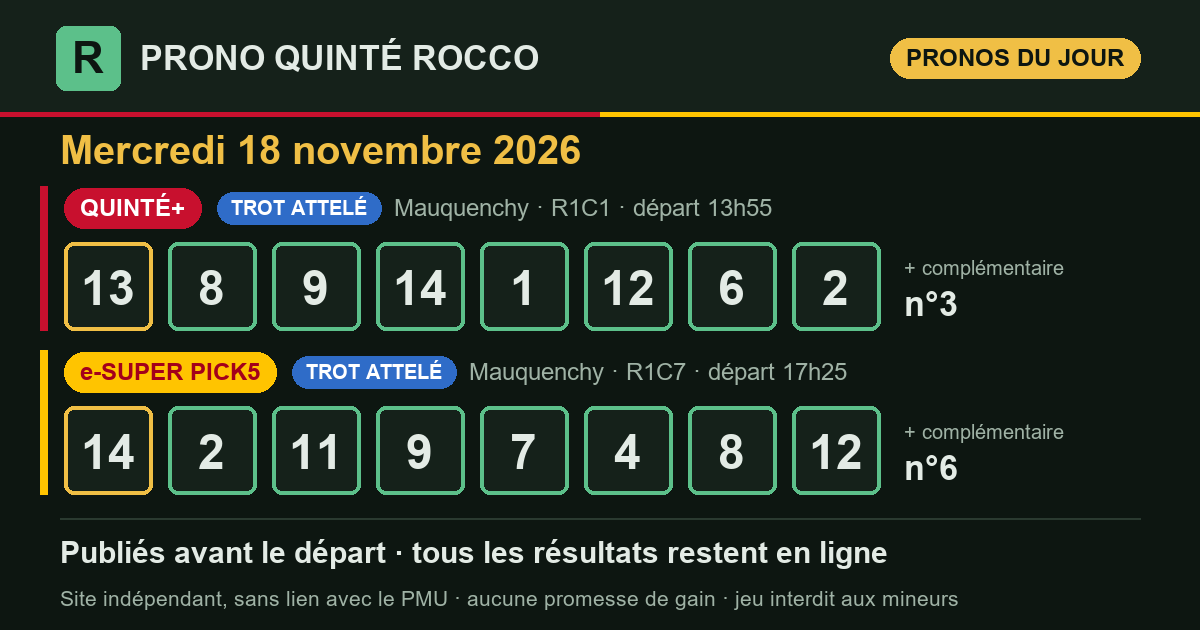
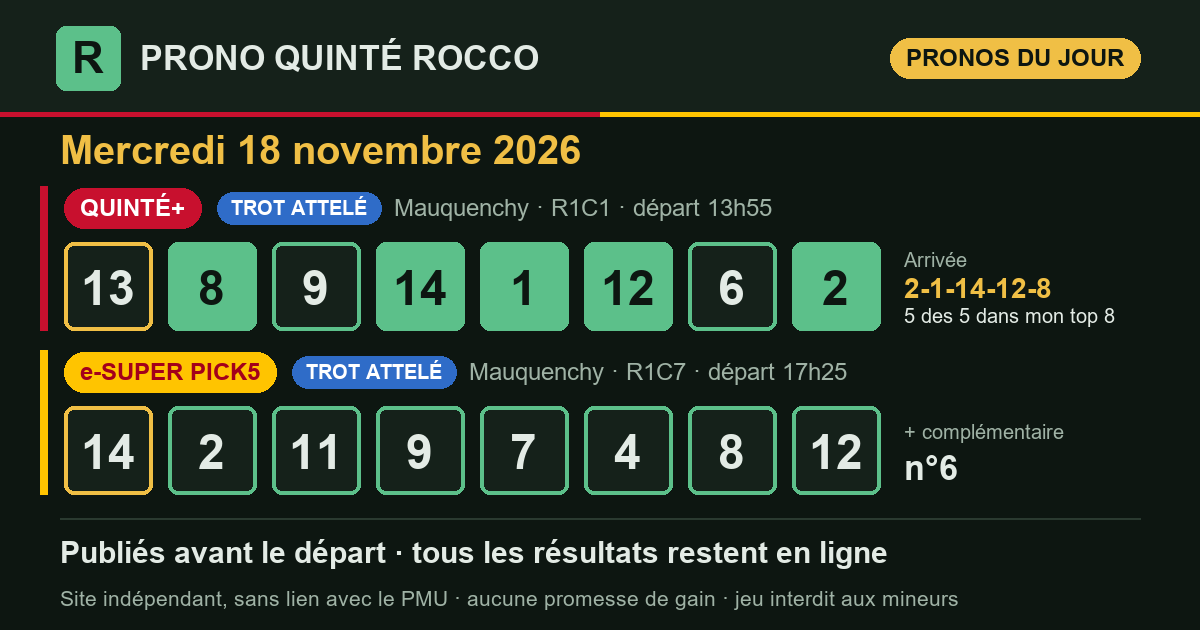
Résultat du Quinté+ 2026-11-18 Mauquenchy R1C1 — publié le 18/11/2026 14:11 (heure de Paris)

Changed region(s): [[0.3083, 0.3921, 0.555, 0.5429], [0.6475, 0.3921, 0.925, 0.5429], [0.1233, 0.3921, 0.2158, 0.5429]]

diff --git a/partants.html b/partants.html
@@ -3,7 +3,7 @@
 <head>
 <meta charset="utf-8">
 <meta name="viewport" content="width=device-width, initial-scale=1, viewport-fit=cover">
-<title>Partants du Quinté+ du mercredi 18 novembre 2026 : Grand National du Trot — Prono Quinté Rocco</title>
+<title>Partants du Quinté+ du jeudi 19 novembre 2026 : Prix de Windsor — Prono Quinté Rocco</title>
 <meta name="description" content="Les partants du prochain Quinté+ (programme officiel du PMU), avec le rang de chaque cheval dans mon prono et les liens vers les pronostics de la presse.">
 <link rel="canonical" href="https://prono-quinte-rocco.fr/partants.html">
 <link rel="stylesheet" href="style.css?v=16feb868">
@@ -13,7 +13,7 @@
 <meta property="og:site_name" content="Prono Quinté Rocco">
 <meta property="og:locale" content="fr_FR">
 <meta property="og:type" content="website">
-<meta property="og:title" content="Partants du Quinté+ du mercredi 18 novembre 2026 : Grand National du Trot — Prono Quinté Rocco">
+<meta property="og:title" content="Partants du Quinté+ du jeudi 19 novembre 2026 : Prix de Windsor — Prono Quinté Rocco">
 <meta property="og:description" content="Les partants du prochain Quinté+ (programme officiel du PMU), avec le rang de chaque cheval dans mon prono et les liens vers les pronostics de la presse.">
 <meta property="og:url" content="https://prono-quinte-rocco.fr/partants.html">
 <meta name="twitter:card" content="summary">
@@ -30,110 +30,100 @@
   <p class="surtitre">Programme officiel du PMU</p>
   <h1>Les partants du prochain Quinté+</h1>
   <div class="fiche-course">
-    <p class="fiche-date">Mercredi 18 novembre 2026</p>
-    <div class="fiche-rc"><span class="pastille" title="Réunion 1">R1</span><span class="pastille" title="Course 1">C1</span><span class="fiche-nom">Grand National du Trot</span></div>
-    <p class="meta"><span class="type t-attele">Trot attelé</span>Mauquenchy · 2 850 m · 18 partants</p>
+    <p class="fiche-date">Jeudi 19 novembre 2026</p>
+    <div class="fiche-rc"><span class="pastille" title="Réunion 1">R1</span><span class="pastille" title="Course 6">C6</span><span class="fiche-nom">Prix de Windsor</span></div>
+    <p class="meta"><span class="type t-plat">Plat</span>Saint-Cloud · 2 000 m · 16 partants</p>
     <p class="fiche-depart">Départ <b>13:55</b> <span>heure de Paris</span></p>
   </div>
   <p class="surtitre">Les pronostics ailleurs sur le web</p>
-  <div class="liens"><a class="lien-ext" href="https://www.turfoo.fr/programmes-courses/261118/reunion1-mauquenchy/course1-grand-national-du-trot/pronostics-presse/" rel="noopener" target="_blank"><b>Les pronostics de la presse →</b><span>sur Turfoo (site extérieur)</span></a><a class="lien-ext" href="https://www.geny.com/programme/2026-11-18" rel="noopener" target="_blank"><b>Partants et pronostics →</b><span>programme du jour sur Geny (site extérieur)</span></a></div>
+  <div class="liens"><a class="lien-ext" href="https://www.turfoo.fr/programmes-courses/261119/reunion1-saint-cloud/course6-prix-de-windsor/pronostics-presse/" rel="noopener" target="_blank"><b>Les pronostics de la presse →</b><span>sur Turfoo (site extérieur)</span></a><a class="lien-ext" href="https://www.geny.com/programme/2026-11-19" rel="noopener" target="_blank"><b>Partants et pronostics →</b><span>programme du jour sur Geny (site extérieur)</span></a></div>
   <div class="liste-boite"><table class="liste-partants">
     <thead><tr><th>N°</th><th>Cheval</th><th class="cote"><span class="long">Cote du matin</span><span class="court">Cote</span></th>
     <th class="ia"><span class="long">Mon prono</span><span class="court">Prono</span></th></tr></thead>
     <tbody><tr>
   <td><span class="tapis petit">1</span></td>
-  <td><span class="cheval">KEMIA DU CHENE</span><span class="sous">B. ROCHARD · J. LE MER</span></td>
-  <td class="cote num">7,7</td>
-  <td class="ia"><span class="etat place">5<sup>e</sup></span></td>
+  <td><span class="cheval">DOUBLE UP</span><span class="sous">A.MADAMET · S.WATTEL (S)</span></td>
+  <td class="cote num">—</td>
+  <td class="ia">—</td>
 </tr><tr>
   <td><span class="tapis petit">2</span></td>
-  <td><span class="cheval">ILEO PIERJI</span><span class="sous">A. BARRIER · CH.A. MARY</span></td>
-  <td class="cote num">19,0</td>
-  <td class="ia"><span class="etat place">8<sup>e</sup></span></td>
+  <td><span class="cheval">BAYAMOON</span><span class="sous">F.VERON · J.REYNIER (S)</span></td>
+  <td class="cote num">—</td>
+  <td class="ia">—</td>
 </tr><tr>
   <td><span class="tapis petit">3</span></td>
-  <td><span class="cheval">LIGHT MY FIRE</span><span class="sous">A. GUARATO · S. GUARATO</span></td>
-  <td class="cote num">21,0</td>
-  <td class="ia"><span class="etat place">compl.</span></td>
+  <td><span class="cheval">GET SET</span><span class="sous">T.BREBION · L.GADBIN (S)</span></td>
+  <td class="cote num">—</td>
+  <td class="ia">—</td>
 </tr><tr>
   <td><span class="tapis petit">4</span></td>
-  <td><span class="cheval">HELIOS SI</span><span class="sous">S. HARDY · S. HARDY</span></td>
-  <td class="cote num">125,0</td>
+  <td><span class="cheval">CENTRICAL</span><span class="sous">B.MARIE · K.KEREKES</span></td>
+  <td class="cote num">—</td>
   <td class="ia">—</td>
 </tr><tr>
   <td><span class="tapis petit">5</span></td>
-  <td><span class="cheval">LOULOU DE MYE</span><span class="sous">R.CH. LARUE · R.CH. LARUE</span></td>
-  <td class="cote num">67,0</td>
+  <td><span class="cheval">MR FLEURANT</span><span class="sous">A.HAMELIN · A.WATRIGANT (S)</span></td>
+  <td class="cote num">—</td>
   <td class="ia">—</td>
 </tr><tr>
   <td><span class="tapis petit">6</span></td>
-  <td><span class="cheval">IGUANE DE CAPONET</span><span class="sous">Y. LEBOURGEOIS · C. RAIMBAUD</span></td>
-  <td class="cote num">12,0</td>
-  <td class="ia"><span class="etat place">7<sup>e</sup></span></td>
+  <td><span class="cheval">ZARAMIX</span><span class="sous">M.GUYON · P&amp;J.BRANDT (S)</span></td>
+  <td class="cote num">—</td>
+  <td class="ia">—</td>
 </tr><tr>
   <td><span class="tapis petit">7</span></td>
-  <td><span class="cheval">HAMILTON DU HAM</span><span class="sous">CH. MARTENS · Y. DESMET</span></td>
-  <td class="cote num">101,0</td>
+  <td><span class="cheval">HOMO DEUS</span><span class="sous">C.LECOEUVRE · H.GHABRI</span></td>
+  <td class="cote num">—</td>
   <td class="ia">—</td>
 </tr><tr>
   <td><span class="tapis petit">8</span></td>
-  <td><span class="cheval">IALTO D&#x27;HERTALS</span><span class="sous">THEO DUVALDESTIN · TH. DUVALDESTIN</span></td>
-  <td class="cote num">11,0</td>
-  <td class="ia"><span class="etat place">2<sup>e</sup></span></td>
+  <td><span class="cheval">FLASH GIRL</span><span class="sous">T.PICCONE · HA.PANTALL (S)</span></td>
+  <td class="cote num">—</td>
+  <td class="ia">—</td>
 </tr><tr>
   <td><span class="tapis petit">9</span></td>
-  <td><span class="cheval">ISOFOU DU CHENE</span><span class="sous">P.PH. PLOQUIN · J. LE MER</span></td>
-  <td class="cote num">4,1</td>
-  <td class="ia"><span class="etat place">3<sup>e</sup></span></td>
+  <td><span class="cheval">AMERICAN GLORY</span><span class="sous">A.LEMAITRE · N.PERRET (S)</span></td>
+  <td class="cote num">—</td>
+  <td class="ia">—</td>
 </tr><tr>
   <td><span class="tapis petit">10</span></td>
-  <td><span class="cheval">J&#x27;AIME LE FOOT</span><span class="sous">A. LHERETE · Antoine LHERETE</span></td>
-  <td class="cote num">87,0</td>
+  <td><span class="cheval">GUILLERETTE</span><span class="sous">F.VALLE SKAR · MME C.BARANDE BARBE</span></td>
+  <td class="cote num">—</td>
   <td class="ia">—</td>
 </tr><tr>
   <td><span class="tapis petit">11</span></td>
-  <td><span class="cheval">HIDALGO DES NOES</span><span class="sous">J. TRAVERS · St. PROVOOST</span></td>
-  <td class="cote num">100,0</td>
+  <td><span class="cheval">PLATA D OCTOBRE</span><span class="sous">H.BOUTIN · MME N.SIGAUD</span></td>
+  <td class="cote num">—</td>
   <td class="ia">—</td>
 </tr><tr>
   <td><span class="tapis petit">12</span></td>
-  <td><span class="cheval">JINGLE DU PONT</span><span class="sous">N. BAZIRE · N. BAZIRE</span></td>
-  <td class="cote num">8,3</td>
-  <td class="ia"><span class="etat place">6<sup>e</sup></span></td>
+  <td><span class="cheval">BON VIVEUR</span><span class="sous">H.LEBOUC · G.PANNIER</span></td>
+  <td class="cote num">—</td>
+  <td class="ia">—</td>
 </tr><tr>
   <td><span class="tapis petit">13</span></td>
-  <td><span class="cheval">IDEAL DU ROCHER</span><span class="sous">CL. DUVALDESTIN · TH. DUVALDESTIN</span></td>
-  <td class="cote num">7,3</td>
-  <td class="ia"><span class="etat place">1<sup>er</sup></span></td>
+  <td><span class="cheval">DOURIANN</span><span class="sous">L.ROUSSEL · G.PANNIER</span></td>
+  <td class="cote num">—</td>
+  <td class="ia">—</td>
 </tr><tr>
   <td><span class="tapis petit">14</span></td>
-  <td><span class="cheval">HULYSSE DIGEO</span><span class="sous">J.W. HALLAIS · J.W. HALLAIS</span></td>
-  <td class="cote num">5,0</td>
-  <td class="ia"><span class="etat place">4<sup>e</sup></span></td>
+  <td><span class="cheval">COMME QUOI</span><span class="sous">S.PASQUIER · N.PERRET (S)</span></td>
+  <td class="cote num">—</td>
+  <td class="ia">—</td>
 </tr><tr>
   <td><span class="tapis petit">15</span></td>
-  <td><span class="cheval">JUSTIN BOLD</span><span class="sous">P.Y. VERVA · J.R. DELLIAUX</span></td>
-  <td class="cote num">169,0</td>
+  <td><span class="cheval">TRABUCO</span><span class="sous">A.MOLINS · P.CHEVIGNY DE</span></td>
+  <td class="cote num">—</td>
   <td class="ia">—</td>
 </tr><tr>
   <td><span class="tapis petit">16</span></td>
-  <td><span class="cheval">JEROBOAM D&#x27;ERABLE</span><span class="sous">D. THOMAIN · CL. THOMAIN</span></td>
-  <td class="cote num">165,0</td>
-  <td class="ia">—</td>
-</tr><tr>
-  <td><span class="tapis petit">17</span></td>
-  <td><span class="cheval">JEAN BALTHAZAR</span><span class="sous">P. CASTEL · P. CASTEL</span></td>
-  <td class="cote num">215,0</td>
-  <td class="ia">—</td>
-</tr><tr>
-  <td><span class="tapis petit">18</span></td>
-  <td><span class="cheval">INA DU RIB</span><span class="sous">J.L.CL. DERSOIR · JOEL HALLAIS</span></td>
-  <td class="cote num">146,0</td>
+  <td><span class="cheval">JUST JIM</span><span class="sous">O.ANDIGNE · A.COUETIL (S)</span></td>
+  <td class="cote num">—</td>
   <td class="ia">—</td>
 </tr></tbody>
   </table></div>
-  <p class="meta">La colonne « Mon prono » donne le rang de chaque cheval dans mon top 8, tel qu&#x27;il est publié sur ce site. Sous chaque cheval : driver · entraîneur. Partants et cotes : programme
-  officiel du PMU, lu le 18/11 à 09:47 (heure de Paris). NP = non-partant.</p>
+  <p class="meta">Mon prono de cette course sera publié le matin de la course, avant le départ. Sous chaque cheval : jockey · entraîneur. Partants et cotes : programme
+  officiel du PMU, lu le 18/11 à 14:11 (heure de Paris). NP = non-partant.</p>
 </section>
 </main>
 <footer class="pied">

diff --git a/index.html b/index.html
@@ -16,7 +16,7 @@
 <meta property="og:title" content="Pronostics Quinté+ et Super Pick 5 du mercredi 18 novembre 2026 — Prono Quinté Rocco">
 <meta property="og:description" content="Pronostics Quinté+ (Grand National du Trot) et Super Pick 5 (Prix du Pmu &quot;le Maintenon&quot; - Saint-Saens) du jour : mes top 8, publiés avant le départ, puis tous les résultats et le rendement réel.">
 <meta property="og:url" content="https://prono-quinte-rocco.fr/">
-<meta property="og:image" content="https://prono-quinte-rocco.fr/partage/jour-2026-11-18.png?v=02df6f31">
+<meta property="og:image" content="https://prono-quinte-rocco.fr/partage/jour-2026-11-18.png?v=7072b34b">
 <meta property="og:image:type" content="image/png">
 <meta property="og:image:width" content="1200">
 <meta property="og:image:height" content="630">
@@ -32,7 +32,7 @@
 <div class="jeux j-quinte" role="navigation" aria-label="Choix du jeu"><a class="jeu jeu-quinte actif" href="index.html" aria-current="true">Quinté+</a><a class="jeu jeu-sp5" href="superpick5.html">e-Super Pick5<small>entre 17 h et 19 h</small></a></div>
 <main>
 <section class="une" aria-labelledby="t-jour">
-  <p class="surtitre">Quinté+ du jour</p>
+  <p class="surtitre">Dernier Quinté+</p>
   <h1 id="t-jour">Le prono du Quinté+, résultats compris</h1>
   <p class="chapo">Chaque matin, j'étudie les partants du Quinté+ avec le logiciel que
   j'ai conçu, selon ma propre méthode, qu'une intelligence artificielle m'aide à
@@ -43,10 +43,13 @@
   <p class="meta">Grand National du Trot · Mauquenchy · <strong>R1C1</strong> · 18 partants · <span class="lisib">lisibilité <span class="note" aria-label="note 2 sur 5" title="lisibilité 2/5 : course ouverte"><i class="on"></i><i class="on"></i><i class=""></i><i class=""></i><i class=""></i></span> 2/5</span></p>
   <div class="zone-prono">
     <h3 class="zone-titre">Mon top 8</h3>
-    <ol class="partants" aria-label="Mon top 8"><li><span class="rang">1<sup>er</sup></span><span class="tapis ">13</span><span class="nom">IDEAL DU ROCHER</span></li><li><span class="rang">2<sup>e</sup></span><span class="tapis ">8</span><span class="nom">IALTO D&#x27;HERTALS</span></li><li><span class="rang">3<sup>e</sup></span><span class="tapis ">9</span><span class="nom">ISOFOU DU CHENE</span></li><li><span class="rang">4<sup>e</sup></span><span class="tapis ">14</span><span class="nom">HULYSSE DIGEO</span></li><li><span class="rang">5<sup>e</sup></span><span class="tapis ">1</span><span class="nom">KEMIA DU CHENE</span></li><li><span class="rang">6<sup>e</sup></span><span class="tapis ">12</span><span class="nom">JINGLE DU PONT</span></li><li><span class="rang">7<sup>e</sup></span><span class="tapis ">6</span><span class="nom">IGUANE DE CAPONET</span></li><li><span class="rang">8<sup>e</sup></span><span class="tapis ">2</span><span class="nom">ILEO PIERJI</span></li><li><span class="rang">compl.</span><span class="tapis creux">3</span><span class="nom">LIGHT MY FIRE</span></li></ol>
+    <ol class="partants" aria-label="Mon top 8"><li><span class="rang">1<sup>er</sup></span><span class="tapis ">13</span><span class="nom">IDEAL DU ROCHER</span></li><li><span class="rang">2<sup>e</sup></span><span class="tapis plein">8</span><span class="nom">IALTO D&#x27;HERTALS</span></li><li><span class="rang">3<sup>e</sup></span><span class="tapis ">9</span><span class="nom">ISOFOU DU CHENE</span></li><li><span class="rang">4<sup>e</sup></span><span class="tapis plein">14</span><span class="nom">HULYSSE DIGEO</span></li><li><span class="rang">5<sup>e</sup></span><span class="tapis plein">1</span><span class="nom">KEMIA DU CHENE</span></li><li><span class="rang">6<sup>e</sup></span><span class="tapis plein">12</span><span class="nom">JINGLE DU PONT</span></li><li><span class="rang">7<sup>e</sup></span><span class="tapis ">6</span><span class="nom">IGUANE DE CAPONET</span></li><li><span class="rang">8<sup>e</sup></span><span class="tapis plein">2</span><span class="nom">ILEO PIERJI</span></li><li><span class="rang">compl.</span><span class="tapis creux">3</span><span class="nom">LIGHT MY FIRE</span></li></ol>
     <div class="pied-carte"><span>Analysé le 18/11 à 09:34 · en ligne le 18/11 à 09:47 · départ à 13:55 (heure de Paris)</span><span><a href="quinte/2026-11-18.html">Détail de la course</a></span></div>
   </div>
-  <div class="zone-arrivee attente"><p>L'arrivée officielle s'affichera ici après la course.</p></div>
+  <div class="zone-arrivee">
+    <div class="zone-tete"><h3 class="zone-titre">Arrivée officielle</h3><span class="etat top">5 des 5 premiers dans mon top 8</span><span class="etat non">mon 1er (n°13) : non placé</span></div>
+    <ol class="partants" aria-label="Arrivée officielle"><li><span class="rang">1<sup>er</sup></span><span class="tapis plein">2</span><span class="nom">ILEO PIERJI</span></li><li><span class="rang">2<sup>e</sup></span><span class="tapis plein">1</span><span class="nom">KEMIA DU CHENE</span></li><li><span class="rang">3<sup>e</sup></span><span class="tapis plein">14</span><span class="nom">HULYSSE DIGEO</span></li><li><span class="rang">4<sup>e</sup></span><span class="tapis plein">12</span><span class="nom">JINGLE DU PONT</span></li><li><span class="rang">5<sup>e</sup></span><span class="tapis plein">8</span><span class="nom">IALTO D&#x27;HERTALS</span></li></ol>
+  </div>
 </article>
 </section>
 <section class="suivre" aria-label="Suivre et soutenir">
@@ -76,7 +79,7 @@
 </section>
 <section class="bilan" aria-labelledby="t-bilan">
   <h2 id="t-bilan">Mon bilan depuis le 8 septembre 2026</h2>
-  <div class="tableau chiffres"><div class="case"><span class="gros ">73 %</span><span class="lib">des arrivants trouvés dans mon top 8</span><span class="ref">un top 8 tiré au hasard : 51 %</span></div><div class="case"><span class="gros ">89 %</span><span class="lib">des gagnants présents dans mon top 8</span><span class="ref"></span></div><div class="case"><span class="gros ">47 %</span><span class="lib">mon 1er placé</span><span class="ref">sur 70 Quintés</span></div><div class="case"><span class="gros perte">0,87 €</span><span class="lib">rendus pour 1 € joué placé sur mon 1er</span><span class="ref">rapports officiels PMU</span></div><div class="case"><span class="gros perte">0,43 €</span><span class="lib">rendus pour 1 € joué en Quinté+ combiné sur mon top 8</span><span class="ref">56 combinaisons, rapports PMU.fr, sur 70 Quintés</span></div></div>
+  <div class="tableau chiffres"><div class="case"><span class="gros ">74 %</span><span class="lib">des arrivants trouvés dans mon top 8</span><span class="ref">un top 8 tiré au hasard : 51 %</span></div><div class="case"><span class="gros ">89 %</span><span class="lib">des gagnants présents dans mon top 8</span><span class="ref"></span></div><div class="case"><span class="gros ">46 %</span><span class="lib">mon 1er placé</span><span class="ref">sur 71 Quintés</span></div><div class="case"><span class="gros perte">0,86 €</span><span class="lib">rendus pour 1 € joué placé sur mon 1er</span><span class="ref">rapports officiels PMU</span></div><div class="case"><span class="gros perte">0,45 €</span><span class="lib">rendus pour 1 € joué en Quinté+ combiné sur mon top 8</span><span class="ref">56 combinaisons, rapports PMU.fr, sur 71 Quintés</span></div></div>
   <p class="avertissement">Moins de 1 € rendu pour 1 € joué : suivre mon prono à la lettre fait <strong>perdre de l'argent</strong> sur cette période. Il sert à analyser une course, pas à promettre un gain.</p>
 </section>
 </main>

diff --git a/quinte/2026-11-18.html b/quinte/2026-11-18.html
@@ -16,7 +16,7 @@
 <meta property="og:title" content="Pronostic Quinté+ du mercredi 18 novembre 2026 : Grand National du Trot à Mauquenchy — Prono Quinté Rocco">
 <meta property="og:description" content="Prono Quinté+ du mercredi 18 novembre 2026 (Grand National du Trot, Mauquenchy) : mon top 8, l&#x27;arrivée officielle et les rapports PMU.fr.">
 <meta property="og:url" content="https://prono-quinte-rocco.fr/quinte/2026-11-18.html">
-<meta property="og:image" content="https://prono-quinte-rocco.fr/partage/2026-11-18.png?v=e78ae44d">
+<meta property="og:image" content="https://prono-quinte-rocco.fr/partage/2026-11-18.png?v=24c022c0">
 <meta property="og:image:type" content="image/png">
 <meta property="og:image:width" content="1200">
 <meta property="og:image:height" content="630">
@@ -36,15 +36,25 @@
   <h1>Pronostic Quinté+ du mercredi 18 novembre 2026</h1>
   <p class="chapo">Grand National du Trot · Mauquenchy · R1C1 · Attelé · 18 partants</p>
   <article class="carte-course">
-  <div class="tete"><h2>Mon prono</h2><span class="type t-attele">Trot attelé</span></div>
+  <div class="tete"><h2>Mon prono et l&#x27;arrivée officielle</h2><span class="type t-attele">Trot attelé</span></div>
   <p class="meta">Grand National du Trot · Mauquenchy · <strong>R1C1</strong> · 18 partants · <span class="lisib">lisibilité <span class="note" aria-label="note 2 sur 5" title="lisibilité 2/5 : course ouverte"><i class="on"></i><i class="on"></i><i class=""></i><i class=""></i><i class=""></i></span> 2/5</span></p>
   <div class="zone-prono">
     <h3 class="zone-titre">Mon top 8</h3>
-    <ol class="partants" aria-label="Mon top 8"><li><span class="rang">1<sup>er</sup></span><span class="tapis ">13</span><span class="nom">IDEAL DU ROCHER</span></li><li><span class="rang">2<sup>e</sup></span><span class="tapis ">8</span><span class="nom">IALTO D&#x27;HERTALS</span></li><li><span class="rang">3<sup>e</sup></span><span class="tapis ">9</span><span class="nom">ISOFOU DU CHENE</span></li><li><span class="rang">4<sup>e</sup></span><span class="tapis ">14</span><span class="nom">HULYSSE DIGEO</span></li><li><span class="rang">5<sup>e</sup></span><span class="tapis ">1</span><span class="nom">KEMIA DU CHENE</span></li><li><span class="rang">6<sup>e</sup></span><span class="tapis ">12</span><span class="nom">JINGLE DU PONT</span></li><li><span class="rang">7<sup>e</sup></span><span class="tapis ">6</span><span class="nom">IGUANE DE CAPONET</span></li><li><span class="rang">8<sup>e</sup></span><span class="tapis ">2</span><span class="nom">ILEO PIERJI</span></li><li><span class="rang">compl.</span><span class="tapis creux">3</span><span class="nom">LIGHT MY FIRE</span></li></ol>
+    <ol class="partants" aria-label="Mon top 8"><li><span class="rang">1<sup>er</sup></span><span class="tapis ">13</span><span class="nom">IDEAL DU ROCHER</span></li><li><span class="rang">2<sup>e</sup></span><span class="tapis plein">8</span><span class="nom">IALTO D&#x27;HERTALS</span></li><li><span class="rang">3<sup>e</sup></span><span class="tapis ">9</span><span class="nom">ISOFOU DU CHENE</span></li><li><span class="rang">4<sup>e</sup></span><span class="tapis plein">14</span><span class="nom">HULYSSE DIGEO</span></li><li><span class="rang">5<sup>e</sup></span><span class="tapis plein">1</span><span class="nom">KEMIA DU CHENE</span></li><li><span class="rang">6<sup>e</sup></span><span class="tapis plein">12</span><span class="nom">JINGLE DU PONT</span></li><li><span class="rang">7<sup>e</sup></span><span class="tapis ">6</span><span class="nom">IGUANE DE CAPONET</span></li><li><span class="rang">8<sup>e</sup></span><span class="tapis plein">2</span><span class="nom">ILEO PIERJI</span></li><li><span class="rang">compl.</span><span class="tapis creux">3</span><span class="nom">LIGHT MY FIRE</span></li></ol>
     <div class="pied-carte"><span>Analysé le 18/11 à 09:34 · en ligne le 18/11 à 09:47 · départ à 13:55 (heure de Paris)</span><span></span></div>
   </div>
-  <div class="zone-arrivee attente"><p>L'arrivée officielle s'affichera ici après la course.</p></div>
+  <div class="zone-arrivee">
+    <div class="zone-tete"><h3 class="zone-titre">Arrivée officielle</h3><span class="etat top">5 des 5 premiers dans mon top 8</span><span class="etat non">mon 1er (n°13) : non placé</span></div>
+    <ol class="partants" aria-label="Arrivée officielle"><li><span class="rang">1<sup>er</sup></span><span class="tapis plein">2</span><span class="nom">ILEO PIERJI</span></li><li><span class="rang">2<sup>e</sup></span><span class="tapis plein">1</span><span class="nom">KEMIA DU CHENE</span></li><li><span class="rang">3<sup>e</sup></span><span class="tapis plein">14</span><span class="nom">HULYSSE DIGEO</span></li><li><span class="rang">4<sup>e</sup></span><span class="tapis plein">12</span><span class="nom">JINGLE DU PONT</span></li><li><span class="rang">5<sup>e</sup></span><span class="tapis plein">8</span><span class="nom">IALTO D&#x27;HERTALS</span></li></ol>
+  </div>
 </article>
+<section class="carte-course rapports" aria-labelledby="t-rap">
+  <div class="tete"><h2 id="t-rap">Les rapports</h2></div>
+  <div class="deux">
+    <div><h3>Ce qu'aurait rendu mon prono</h3><dl class="kv"><dt>1 € placé sur mon 1er (n°13)</dt><dd class="perte">0,00 €</dd><dt>1 € gagnant sur mon 1er</dt><dd class="perte">0,00 €</dd><dt>Quinté+ combiné sur mon top 8 (mise 112 €)</dt><dd class="gain"><span class="etat top somme">180,40 €</span></dd><dd class="dont">dont Désordre × 1, Bonus 4sur5 × 15, Bonus 3 × 3</dd></dl></div>
+    <div><h3>Rapports officiels</h3><dl class="kv"><dt>e-Quinté+ Ordre (2 €)</dt><dd>12 307,00 €</dd><dt>e-Quinté+ Désordre (2 €)</dt><dd>102,40 €</dd><dt>e-Bonus 4sur5 (2 €)</dt><dd>4,40 €</dd><dt>e-Bonus 3 (2 €)</dt><dd>4,00 €</dd></dl></div>
+  </div>
+</section>
 </section>
 </main>
 <footer class="pied">

diff --git a/resultats.html b/resultats.html
@@ -49,12 +49,12 @@
     <th colspan="4" class="res g-res">Le résultat officiel</th></tr>
     <tr><th>Date</th><th>Course</th><th>Top 8</th><th class="c-lis">Lisibilité</th><th class="res c-arr">Arrivée</th>
     <th class="res">Trouvés</th><th class="res">Mon 1er</th><th class="res mont">Quinté+ top 8<br><small>(mise 112 €)</small></th></tr></thead>
-    <tbody><tr class="attente">
+    <tbody><tr>
   <td class="c-date"><a href="quinte/2026-11-18.html">18/11</a></td>
   <td class="c-course">Mauquenchy<br><span class="meta">R1C1</span><span class="type t-attele petit">Attelé</span></td>
-  <td class="c-top8" data-label="Mon top 8"><div class="rangee"><span class="tapis petit">13</span><span class="tapis petit">8</span><span class="tapis petit">9</span><span class="tapis petit">14</span><span class="tapis petit">1</span><span class="tapis petit">12</span><span class="tapis petit">6</span><span class="tapis petit">2</span></div></td>
+  <td class="c-top8" data-label="Mon top 8"><div class="rangee"><span class="tapis petit">13</span><span class="tapis plein petit">8</span><span class="tapis petit">9</span><span class="tapis plein petit">14</span><span class="tapis plein petit">1</span><span class="tapis plein petit">12</span><span class="tapis petit">6</span><span class="tapis plein petit">2</span></div></td>
   <td class="c-lis" data-label="Lisibilité"><span class="note" aria-label="note 2 sur 5" title="lisibilité 2/5 : course ouverte"><i class="on"></i><i class="on"></i><i class=""></i><i class=""></i><i class=""></i></span> 2/5</td>
-  <td class="res c-arr" data-label="Arrivée"><span class="etat attente">en attente</span></td><td class="res num c-trouves" data-label="Trouvés">—</td><td class="res c-premier" data-label="Mon 1er"><span class="etat attente">—</span></td><td class="res mont c-mont" data-label="Quinté+ top 8 (mise 112 €)">—</td>
+  <td class="res c-arr" data-label="Arrivée"><div class="rangee"><span class="tapis plein petit" title="1er">2</span><span class="tapis plein petit" title="2e">1</span><span class="tapis plein petit" title="3e">14</span><span class="tapis plein petit" title="4e">12</span><span class="tapis plein petit" title="5e">8</span></div></td><td class="res num c-trouves" data-label="Trouvés"><span class="etat top" title="les 5 premiers sont dans mon top 8">5/5</span></td><td class="res c-premier" data-label="Mon 1er"><span class="etat non">non placé</span></td><td class="res mont c-mont gain" data-label="Quinté+ top 8 (mise 112 €)" title="gain net : 68,40 €"><span class="etat top somme">180,40 €</span></td>
 </tr><tr>
   <td class="c-date"><a href="quinte/2026-11-17.html">17/11</a></td>
   <td class="c-course">Chantilly<br><span class="meta">R1C4</span><span class="type t-plat petit">Plat</span></td>
@@ -480,7 +480,7 @@
 </section>
 <section class="bilan" aria-labelledby="t-bilan">
   <h2 id="t-bilan">Mon bilan depuis le 8 septembre 2026</h2>
-  <div class="tableau chiffres"><div class="case"><span class="gros ">73 %</span><span class="lib">des arrivants trouvés dans mon top 8</span><span class="ref">un top 8 tiré au hasard : 51 %</span></div><div class="case"><span class="gros ">89 %</span><span class="lib">des gagnants présents dans mon top 8</span><span class="ref"></span></div><div class="case"><span class="gros ">47 %</span><span class="lib">mon 1er placé</span><span class="ref">sur 70 Quintés</span></div><div class="case"><span class="gros perte">0,87 €</span><span class="lib">rendus pour 1 € joué placé sur mon 1er</span><span class="ref">rapports officiels PMU</span></div><div class="case"><span class="gros perte">0,43 €</span><span class="lib">rendus pour 1 € joué en Quinté+ combiné sur mon top 8</span><span class="ref">56 combinaisons, rapports PMU.fr, sur 70 Quintés</span></div></div>
+  <div class="tableau chiffres"><div class="case"><span class="gros ">74 %</span><span class="lib">des arrivants trouvés dans mon top 8</span><span class="ref">un top 8 tiré au hasard : 51 %</span></div><div class="case"><span class="gros ">89 %</span><span class="lib">des gagnants présents dans mon top 8</span><span class="ref"></span></div><div class="case"><span class="gros ">46 %</span><span class="lib">mon 1er placé</span><span class="ref">sur 71 Quintés</span></div><div class="case"><span class="gros perte">0,86 €</span><span class="lib">rendus pour 1 € joué placé sur mon 1er</span><span class="ref">rapports officiels PMU</span></div><div class="case"><span class="gros perte">0,45 €</span><span class="lib">rendus pour 1 € joué en Quinté+ combiné sur mon top 8</span><span class="ref">56 combinaisons, rapports PMU.fr, sur 71 Quintés</span></div></div>
   <p class="avertissement">Moins de 1 € rendu pour 1 € joué : suivre mon prono à la lettre fait <strong>perdre de l'argent</strong> sur cette période. Il sert à analyser une course, pas à promettre un gain.</p>
 </section>
 </main>

diff --git a/superpick5-partants.html b/superpick5-partants.html
@@ -43,42 +43,42 @@
     <tbody><tr>
   <td><span class="tapis petit">1</span></td>
   <td><span class="cheval">TOSCANA SOUTHWIND</span><span class="sous">P.Y. VERVA · H.E. BONDO</span></td>
-  <td class="cote num">34,0</td>
+  <td class="cote num">16,0</td>
   <td class="ia">—</td>
 </tr><tr>
   <td><span class="tapis petit">2</span></td>
   <td><span class="cheval">IMPERATUR AM</span><span class="sous">G. GELORMINI · H.E. BONDO</span></td>
-  <td class="cote num">7,4</td>
+  <td class="cote num">5,8</td>
   <td class="ia"><span class="etat place">2<sup>e</sup></span></td>
 </tr><tr>
   <td><span class="tapis petit">3</span></td>
   <td><span class="cheval">LORENZO BOKO</span><span class="sous">Y. LEBOURGEOIS · Pierrick LE MOEL</span></td>
-  <td class="cote num">71,0</td>
+  <td class="cote num">31,0</td>
   <td class="ia">—</td>
 </tr><tr>
   <td><span class="tapis petit">4</span></td>
   <td><span class="cheval">JOUEUSE DU MIREL</span><span class="sous">F. OUVRIE · Mme Suzanne VACHET</span></td>
-  <td class="cote num">17,0</td>
+  <td class="cote num">24,0</td>
   <td class="ia"><span class="etat place">6<sup>e</sup></span></td>
 </tr><tr>
   <td><span class="tapis petit">5</span></td>
   <td><span class="cheval">IDEAL MOSSA</span><span class="sous">J. VANMEERBECK · Sté. Ent. Jonathan VANMEERBECK</span></td>
-  <td class="cote num">89,0</td>
+  <td class="cote num">52,0</td>
   <td class="ia">—</td>
 </tr><tr>
   <td><span class="tapis petit">6</span></td>
   <td><span class="cheval">KASH KEEPER</span><span class="sous">M. MOTTIER · David PERSSON</span></td>
-  <td class="cote num">38,0</td>
+  <td class="cote num">20,0</td>
   <td class="ia"><span class="etat place">compl.</span></td>
 </tr><tr>
   <td><span class="tapis petit">7</span></td>
   <td><span class="cheval">JEUNE AMI</span><span class="sous">P.PH. PLOQUIN · H. VAN DEN HENDE</span></td>
-  <td class="cote num">24,0</td>
+  <td class="cote num">16,0</td>
   <td class="ia"><span class="etat place">5<sup>e</sup></span></td>
 </tr><tr>
   <td><span class="tapis petit">8</span></td>
   <td><span class="cheval">JOKER D&#x27;OCCAGNES</span><span class="sous">TH. DROMIGNY · G. CURENS</span></td>
-  <td class="cote num">13,0</td>
+  <td class="cote num">18,0</td>
   <td class="ia"><span class="etat place">7<sup>e</sup></span></td>
 </tr><tr>
   <td><span class="tapis petit">9</span></td>
@@ -88,32 +88,32 @@
 </tr><tr>
   <td><span class="tapis petit">10</span></td>
   <td><span class="cheval">JACK L&#x27;EVENTREUR</span><span class="sous">CEDRIC TERRY · F. TERRY</span></td>
-  <td class="cote num">25,0</td>
+  <td class="cote num">20,0</td>
   <td class="ia">—</td>
 </tr><tr>
   <td><span class="tapis petit">11</span></td>
   <td><span class="cheval">LOOK OF LOVE</span><span class="sous">J. VAN DEN PUTTE JR. · Mme Celestine CORTY</span></td>
-  <td class="cote num">10,0</td>
+  <td class="cote num">11,0</td>
   <td class="ia"><span class="etat place">3<sup>e</sup></span></td>
 </tr><tr>
   <td><span class="tapis petit">12</span></td>
   <td><span class="cheval">JACK DU CEBE</span><span class="sous">A. CHARRIE · K. LEBLANC</span></td>
-  <td class="cote num">214,0</td>
+  <td class="cote num">58,0</td>
   <td class="ia"><span class="etat place">8<sup>e</sup></span></td>
 </tr><tr>
   <td><span class="tapis petit">13</span></td>
   <td><span class="cheval">ICI PARIS EFJI</span><span class="sous">J. TRAVERS · St. PROVOOST</span></td>
-  <td class="cote num">21,0</td>
+  <td class="cote num">24,0</td>
   <td class="ia">—</td>
 </tr><tr>
   <td><span class="tapis petit">14</span></td>
   <td><span class="cheval">JAZZMAN</span><span class="sous">E. RAFFIN · J.PH. DUBOIS</span></td>
-  <td class="cote num">1,9</td>
+  <td class="cote num">2,5</td>
   <td class="ia"><span class="etat place">1<sup>er</sup></span></td>
 </tr></tbody>
   </table></div>
   <p class="meta">La colonne « Mon prono » donne le rang de chaque cheval dans mon top 8, tel qu&#x27;il est publié sur ce site. Sous chaque cheval : driver · entraîneur. Partants et cotes : programme
-  officiel du PMU, lu le 18/11 à 09:47 (heure de Paris). NP = non-partant.</p>
+  officiel du PMU, lu le 18/11 à 14:11 (heure de Paris). NP = non-partant.</p>
 </section>
 </main>
 <footer class="pied">
